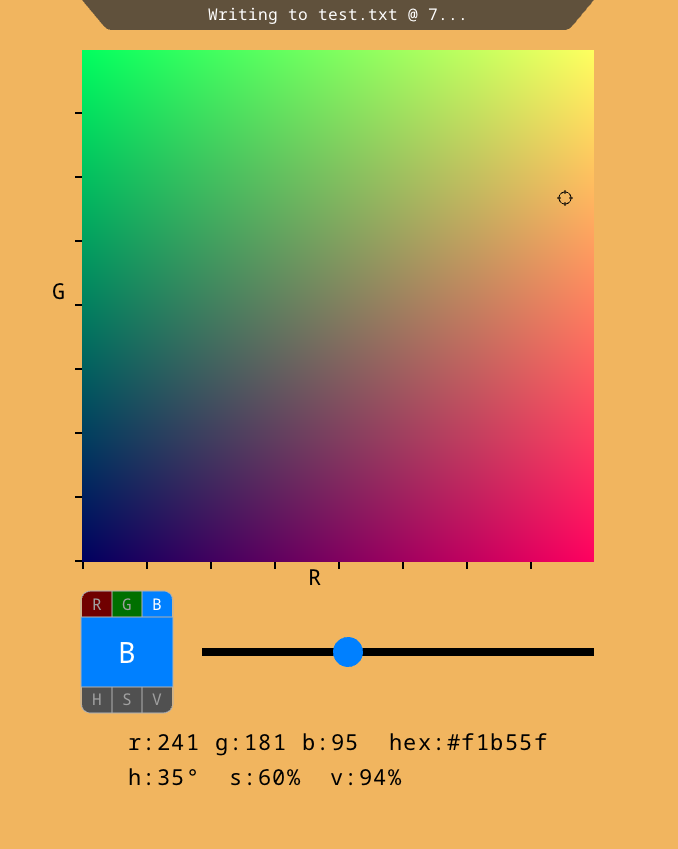
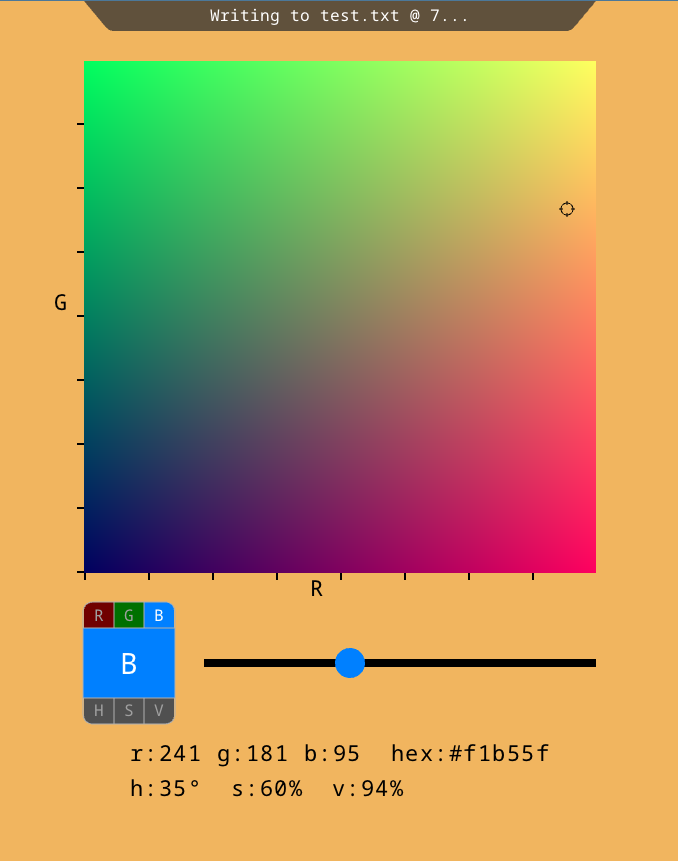
Tweak layout

diff --git a/cpick.c b/cpick.c
@@ -753,7 +753,7 @@ void draw_ui_and_respond_input(struct state *st)
 	int grad_square_w = 512*dpi + y_axis_w;
 	int grad_square_h = 512*dpi + x_axis_h;
 	int grad_square_x = (st->screenWidth - 512*dpi)/2;
-	int grad_square_y = out_ind_bottom_y+20*dpi;
+	int grad_square_y = out_ind_bottom_y+(st->outfile.path ? 10*dpi : 0)+20*dpi;
 	int grad_square_y_end = grad_square_y + 512*dpi;
 	int grad_square_x_end = grad_square_x + 512*dpi;
 	bool square = true;
